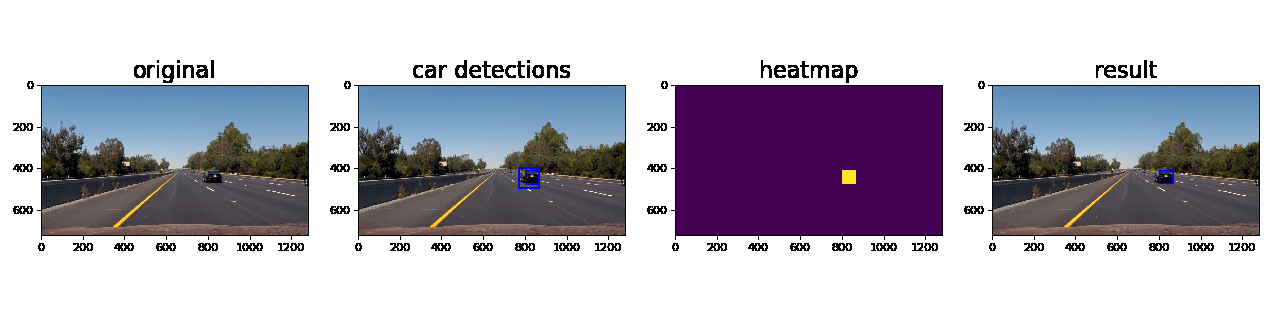
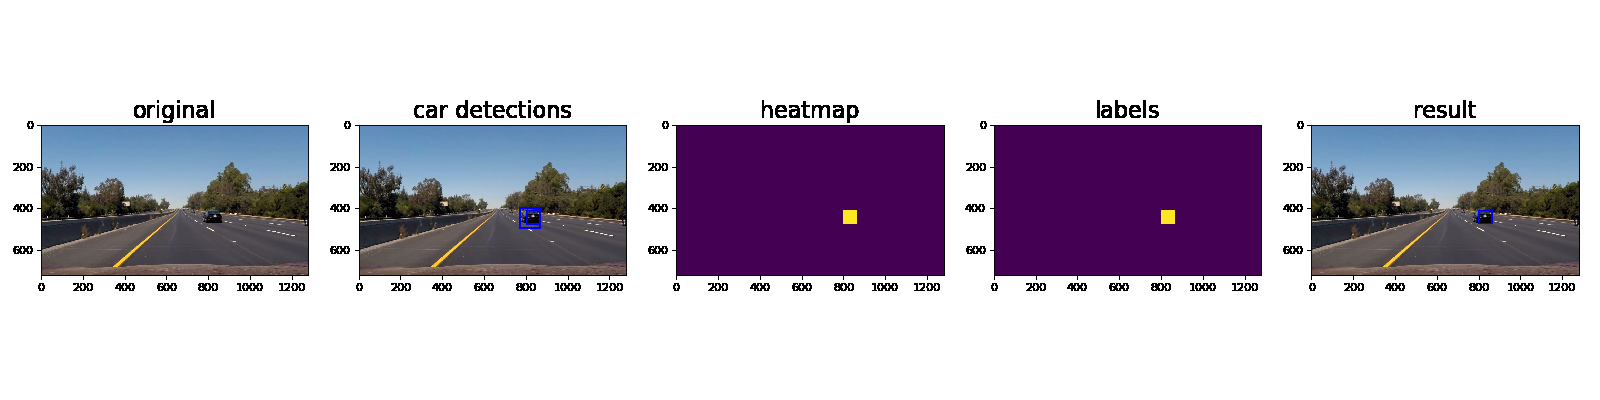
extended visualization of complete pipeline

Changed region(s): [[0.0, 0.1875, 1.0, 0.7812], [0.6562, 0.5312, 0.6875, 0.5938]]

diff --git a/tests/test_car_finder_pipeline.py b/tests/test_car_finder_pipeline.py
@@ -31,20 +31,32 @@ class TestCarFinderPipeline(unittest.TestCase):
             out = image_util.arrangeImages([img, processed_img], ["original","car detection"], figsize=(4,2))
             image_util.saveImage(out, TEST_OUT_DIR+"/identified_boxes"+str(i)+".png")
 
-    def test_readme_images(self) :
+    def test_readme_video_images(self) :
+        # images from sequence in video
         p = pipeline.Pipeline(1)
         imgs = image_util.loadImagesRGB(IMG_DIR2)
         for i,img in enumerate(imgs):
-            draw_img, heatmap, boxed_image = p.process_verbose(np.copy(img))
+            draw_img, labels, heatmap, boxed_image = p.process_verbose(np.copy(img))
         
-            out = image_util.arrangeImages([img, boxed_image, heatmap, draw_img], ["original","car detections", "heatmap", "result"], figsize=(4,1))
+            out = image_util.arrangeImages([img, boxed_image, heatmap, labels[0], draw_img], ["original","car detections", "heatmap", "labels", "result"], figsize=(4,1))
             image_util.saveImage(out, TEST_OUT_DIR+"/readme_videoprocess"+str(i)+".png")
         p = pipeline.Pipeline(9)
         imgs = image_util.loadImagesRGB(IMG_DIR2)
         for i,img in enumerate(imgs):
-            draw_img, heatmap, boxed_image = p.process_verbose(np.copy(img))
-            out = image_util.arrangeImages([img, boxed_image, heatmap, draw_img], ["original","car detections", "heatmap", "result"], figsize=(4,1))
+            draw_img, labels, heatmap, boxed_image = p.process_verbose(np.copy(img))
+            out = image_util.arrangeImages([img, boxed_image, heatmap, labels[0], draw_img], ["original","car detections", "heatmap", "labels", "result"], figsize=(4,1))
             image_util.saveImage(out, TEST_OUT_DIR+"/readme_videoprocess_with_history"+str(i)+".png")
+
+    def test_readme_video_images(self) :
+        # images from test image folder
+        p = pipeline.Pipeline(1)
+        imgs = image_util.loadImagesRGB(IMG_DIR)
+        for i,img in enumerate(imgs):
+            draw_img, labels, heatmap, boxed_image = p.process_verbose(np.copy(img))
+            
+            out = image_util.arrangeImages([img, boxed_image, heatmap, labels[0], draw_img], ["original","car detections", "heatmap", "labels", "result"], figsize=(4,1))
+            image_util.saveImage(out, TEST_OUT_DIR+"/readme_test_images_process"+str(i)+".png")
+
 
 
 

diff --git a/car_finder_pipeline.py b/car_finder_pipeline.py
@@ -99,7 +99,7 @@ class Pipeline:
         
         self.hotspots.add_bboxes(boxes)
         
-        draw_img, heatmap, boxed_image = self.hotspots.draw_labeled_bboxes_with_history_verbose(img)
+        draw_img, labels, heatmap, boxed_image = self.hotspots.draw_labeled_bboxes_with_history_verbose(img)
         
-        return draw_img, heatmap, boxed_image
+        return draw_img, labels, heatmap, boxed_image
 

diff --git a/hotspots.py b/hotspots.py
@@ -59,7 +59,7 @@ class Hotspots:
         labels = label(heatmap)
         draw_img = self.draw_labeled_bboxes(img, labels)
         #draw_img = self.draw_heatmap(heatmap)
-        return  draw_img, heatmap, boxed_image
+        return  draw_img, labels, heatmap, boxed_image
 
     def draw_heatmap(self,heatmap):
         fig = plt.figure(figsize=(12.8, 7.2), dpi=100)

diff --git a/README.md b/README.md
@@ -44,11 +44,12 @@ My project includes the following files:
 [imagewindow3]: ./output_images/windows_3.png
 
 
-[identified_boxes0]: ./output_images/identified_boxes0.png
-[identified_boxes1]: ./output_images/identified_boxes1.png
-[identified_boxes2]: ./output_images/identified_boxes2.png
-[identified_boxes3]: ./output_images/identified_boxes3.png
-[identified_boxes4]: ./output_images/identified_boxes4.png
+[readme_test_images_process0]: ./output_images/readme_test_images_process0.png
+[readme_test_images_process1]: ./output_images/readme_test_images_process1.png
+[readme_test_images_process2]: ./output_images/readme_test_images_process2.png
+[readme_test_images_process3]: ./output_images/readme_test_images_process3.png
+[readme_test_images_process4]: ./output_images/readme_test_images_process4.png
+[readme_test_images_process5]: ./output_images/readme_test_images_process5.png
 
 [readme_videoprocess1]: ./output_images/readme_videoprocess1.png
 [readme_videoprocess2]: ./output_images/readme_videoprocess2.png
@@ -285,11 +286,12 @@ The pipeline for detection of cars is implemented in function `process()` in fil
 
 Ultimately I searched on three scales using YUV 3-channel HOG features plus spatially binned color and histograms of color in the feature vector, which provided a nice result.  Here are some example images:
 
-![alt text][identified_boxes0]
-![alt text][identified_boxes1]
-![alt text][identified_boxes2]
-![alt text][identified_boxes3]
-![alt text][identified_boxes4]
+![alt text][readme_test_images_process0]
+![alt text][readme_test_images_process1]
+![alt text][readme_test_images_process2]
+![alt text][readme_test_images_process3]
+![alt text][readme_test_images_process4]
+![alt text][readme_test_images_process5]
 
 ---
 
